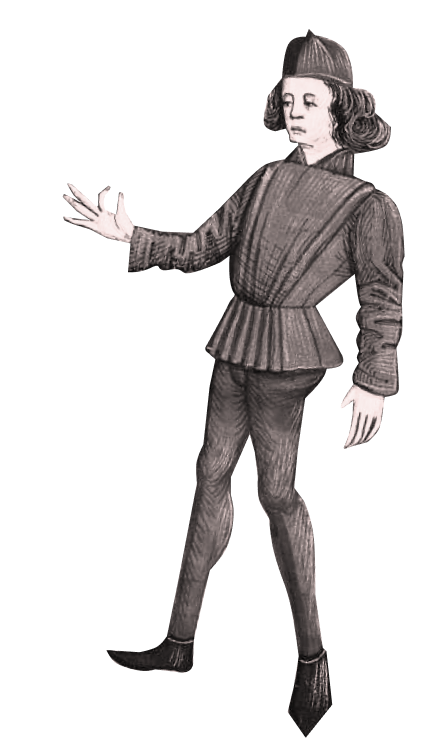
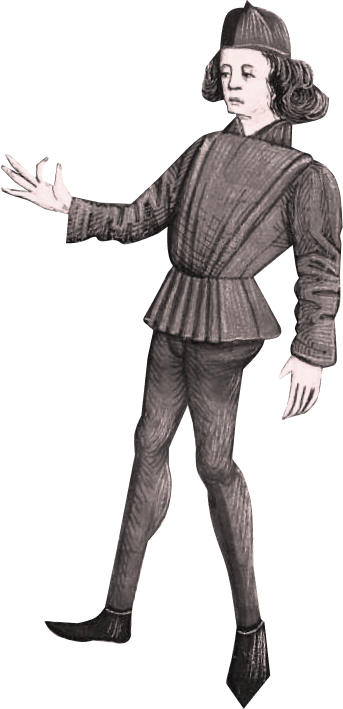
add new images, update styles & image position

Changed region(s): [[0.0, 0.0, 1.0, 1.0]]

diff --git a/src/components/song-section-4/index.jsx b/src/components/song-section-4/index.jsx
@@ -1,6 +1,7 @@
 import React, { useContext } from 'react'
 import './index.scss'
 import image1 from '../../assets/man.png'
+import boxImage from '../../assets/box.png'
 import { I18nContext } from '../../layouts/base-layout'
 import SongIndexHelper from "../song-index-helper";
 
@@ -11,10 +12,11 @@ const SongSection4 = () => {
         <section className='container song-section'>
             <div className="row">
                 <div className="col-12">
-                    <img style={{ top: '-100px', right: '-250px', transform: 'rotate(-40deg)' }} className='image' src={image1} alt="Man" />
-                    <img style={{ top: '500px', right: '-250px' }} className='image' src={image1} alt="Man" />
+                    <img style={{ top: '-100px', right: '-50px', transform: 'rotate(-40deg)' }} className='image' src={image1} alt="Man" />
+                    <img style={{ top: '400px', right: '-50px' }} className='image' src={image1} alt="Man" />
                     <img style={{ bottom: '-200px', left: '-300px', transform: 'rotate(40deg)' }} className='image' src={image1} alt="Man" />
                     <img style={{ bottom: '250px', left: '-250px' }} className='image' src={image1} alt="Man" />
+                    <img style={{ bottom: '-100px', right: '-150px' }} className='image' src={boxImage} alt="Headphones" />
                     <h2>{songSection4.header}</h2>
                     {SongIndexHelper(4)}
 

diff --git a/src/components/song-section-5/index.jsx b/src/components/song-section-5/index.jsx
@@ -1,12 +1,13 @@
 import React, { useContext } from 'react'
 import './index.scss'
 import image1 from '../../assets/photo.png'
+import box from '../../assets/box-h.png'
 import { I18nContext } from '../../layouts/base-layout'
 import SongIndexHelper from "../song-index-helper";
 
 
 const images = [...new Float32Array(4)].map(
-    (_, index) => <img key={index} className='image' style={{ opacity: `${0.35 - index * 0.1}` }} src={image1} alt="Winner" />
+    (_, index) => <img key={index} style={{ opacity: `${0.35 - index * 0.1}` }} src={image1} alt="Winner" />
 );
 
 
@@ -18,11 +19,12 @@ const SongSection4 = () => {
             <div className="row">
                 <div className="col-12">
                     <div className="image-wrapper">
-                        <img className='image' src={image1} alt="Winner" />
+                        <img src={image1} alt="Winner" />
                         {images}
+                        <img style={{bottom: '-25px', right:'50%', transform: 'translateX(50%)'}} className='position-absolute' src={box} alt="Headphones" />
                     </div>
 
-                    <h2>{songSection5.header}</h2>
+                    <h2 className='col col-sm-8'>{songSection5.header}</h2>
                     {SongIndexHelper(5)}
 
                 </div>

diff --git a/src/components/song-section-2/index.jsx b/src/components/song-section-2/index.jsx
@@ -6,7 +6,7 @@ import './index.scss'
 import SongIndexHelper from "../song-index-helper";
 
 const SongSection2 = () => {
-    const { songSection2 } = useContext(I18nContext)
+    const { songSection2 } = useContext(I18nContext);
 
     return (
         <section className="container song-section song-section-2">
@@ -15,8 +15,8 @@ const SongSection2 = () => {
                     {SongIndexHelper(2)}
                     <h2>{songSection2.header}</h2>
                     <p><i>{songSection2.headerCaption}</i></p>
-                    <img style={{ top: '300px', left: '-150px' }} className='image' src={image1} alt="Rose" />
-                    <img style={{ top: '300px', right: '-150px' }} className='image' src={image2} alt="Demasho" />
+                    <img style={{ top: '250px', left: '-150px' }} className='image' src={image1} alt="Rose" />
+                    <img style={{ top: '250px', right: '-100px' }} className='image' src={image2} alt="Demasho" />
                 </div>
                 <div className="col-md-7">
                     <p>{songSection2.text1}</p>
@@ -32,6 +32,6 @@ const SongSection2 = () => {
             </div>
         </section>
     )
-}
+};
 
 export default SongSection2

diff --git a/src/components/song-section-1/index.jsx b/src/components/song-section-1/index.jsx
@@ -12,8 +12,8 @@ const SongSection1 = () => {
         <section className="container song-section song-section1">
             <div className="row">
                 <div className="image-wrapper">
-                    <img className='sapho-image' src={saphoImage} alt="Sapho" />
-                    <img className='star-image' src={starImage} alt="star" />
+                    <img src={saphoImage} alt="Sapho" />
+                    <img style={{ top: '20px', right: '-40px' }} className='image' src={starImage} alt="Star" />
                     <p className="image-caption"><i>{songSection1.imageCaption}</i></p>
                 </div>
                 <div className="header-wrapper">

diff --git a/src/components/banner-section/index.jsx b/src/components/banner-section/index.jsx
@@ -10,8 +10,8 @@ const BannerSection = () => {
     return (
         <section className='banner-section'>
             <div className="image-wrapper">
-                <img style={{ top: '100px', right: '150px' }} className='earphone' src={image1} alt="Earphone" />
-                <img style={{ top: '-20px', right: '0' }} className='earphone' src={image2} alt="Earphone" />
+                <img style={{ top: '180px', right: '230px' }} className='earphone' src={image1} alt="Earphone" />
+                <img style={{ top: '60px', right: '150px' }} className='earphone' src={image2} alt="Earphone" />
             </div>
 
             <div className="container">

diff --git a/src/components/song-section-6/index.jsx b/src/components/song-section-6/index.jsx
@@ -1,6 +1,7 @@
 import React, { useContext } from 'react'
 import './index.scss'
 import image1 from '../../assets/photo2.png'
+import boxImage from '../../assets/box-v.png'
 import { I18nContext } from '../../layouts/base-layout'
 import SongIndexHelper from "../song-index-helper";
 
@@ -28,9 +29,12 @@ const SongSection6 = () => {
                     <i>{songSection6.videoCaption}</i>
                 </div>
             </div>
+            <div className="row">
+                <img className='col-md-6 offset-md-6 m' src={boxImage} alt="Headphones" />
+            </div>
         </section >
     )
-}
+};
 
 
 export default SongSection6

diff --git a/src/components/song-section-3/index.jsx b/src/components/song-section-3/index.jsx
@@ -13,7 +13,7 @@ const SongSection3 = () => {
             <div className="row">
 
                 <div className="col-12">
-                    <img style={{ top: '250px', right: '-150px' }} className='image' src={image1} alt="Rose" />
+                    <img style={{ top: '250px', right: '50px' }} className='image' src={image1} alt="Rose" />
                     <img style={{ top: '0px', right: '330px', zIndex: -1}} className='image' src={image2} alt="Rose" />
                     <h2>{songSection3.header}</h2>
                     {SongIndexHelper(3)}

diff --git a/src/components/song-section-5/index.scss b/src/components/song-section-5/index.scss
@@ -2,11 +2,8 @@
     .image-wrapper{
         position: absolute;
         top: 0;
-        right: 0;
+        right: 200px;
         display: flex;
         flex-direction: column;
-        img{
-            position: unset;
-        }
     }
 }

diff --git a/src/components/song-section-1/index.scss b/src/components/song-section-1/index.scss
@@ -17,12 +17,6 @@
       width: 225px;
     }
   }
-  .star-image {
-    position: absolute;
-    top: -100px;
-    right: -70px;
-    width: 650px;
-  }
   .youtube-iframe{
     margin-bottom: 20px;
   }

diff --git a/src/components/song-index-helper.jsx b/src/components/song-index-helper.jsx
@@ -2,7 +2,6 @@ import React from "react";
 
 const SongIndexHelper = (index)=>(
 	<span className='song-index' id={`songIndex${index}`}>{index}</span>
-
 );
 
 export default SongIndexHelper

diff --git a/src/components/player/index.scss b/src/components/player/index.scss
@@ -40,6 +40,8 @@
 		-webkit-appearance: none;
 		margin: 0 30px;
 		min-width: 60px;
+		height: 40px;
+		background: transparent;
 		padding: 0;
 
 		&:focus {

diff --git a/src/components/song-section-6/index.scss b/src/components/song-section-6/index.scss
@@ -1,0 +1,5 @@
+.song-section-5{
+	.m{
+		padding: 150px 0;
+	}
+}
